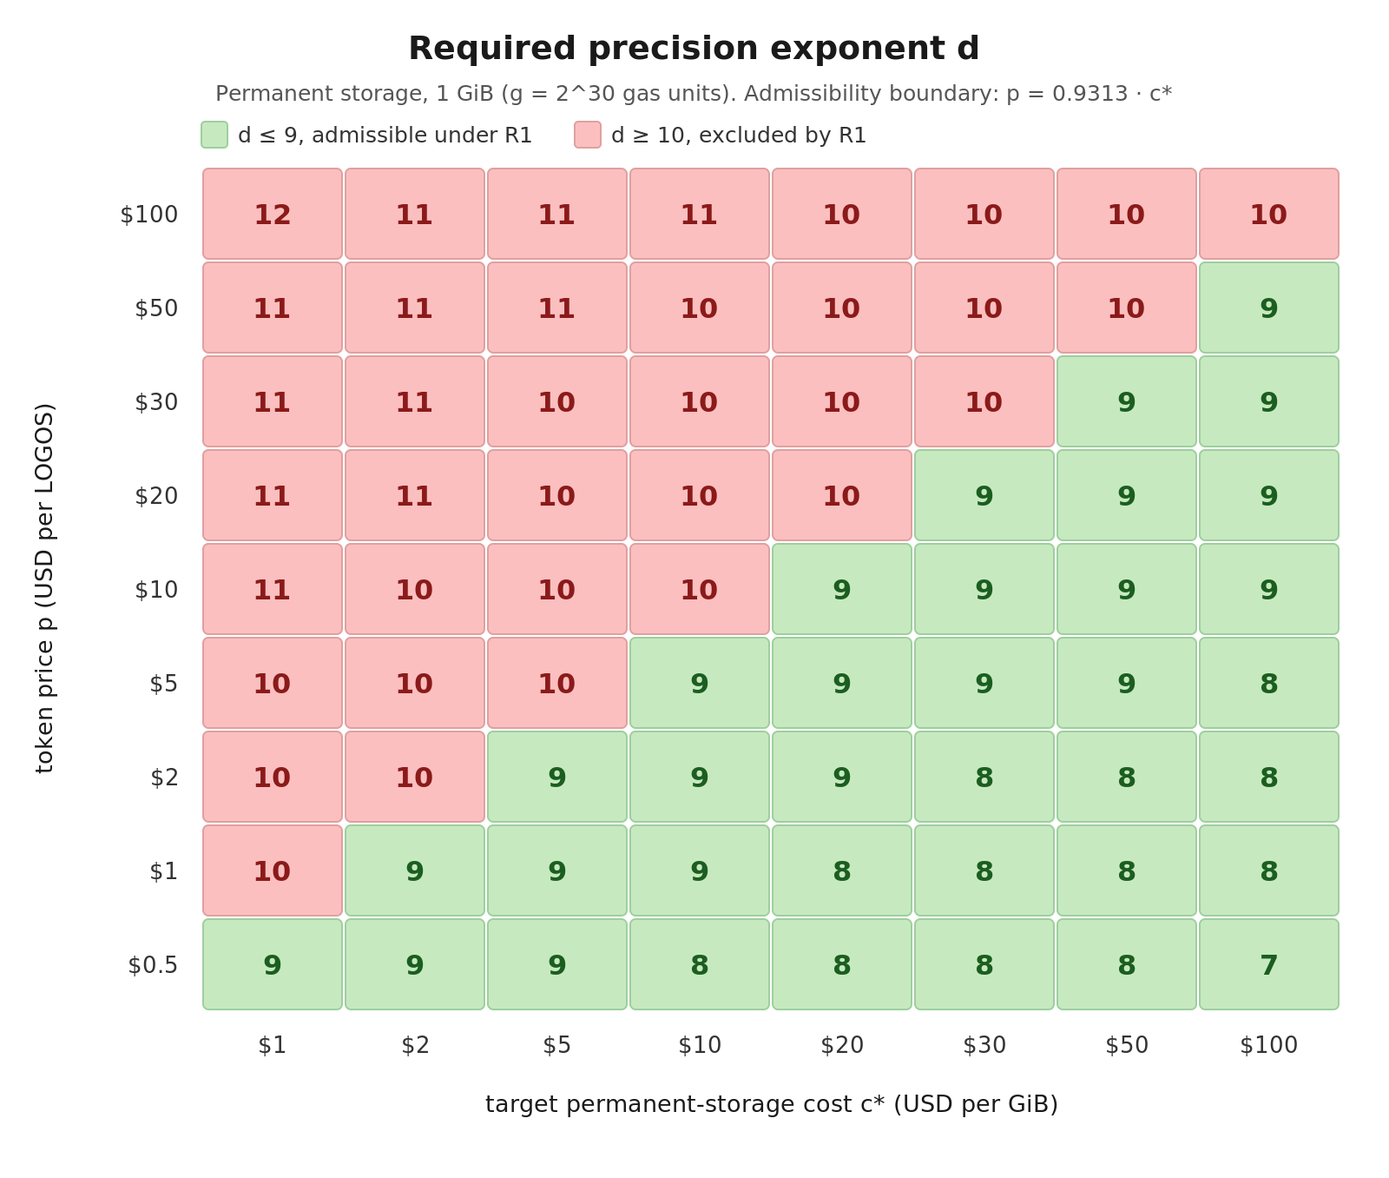
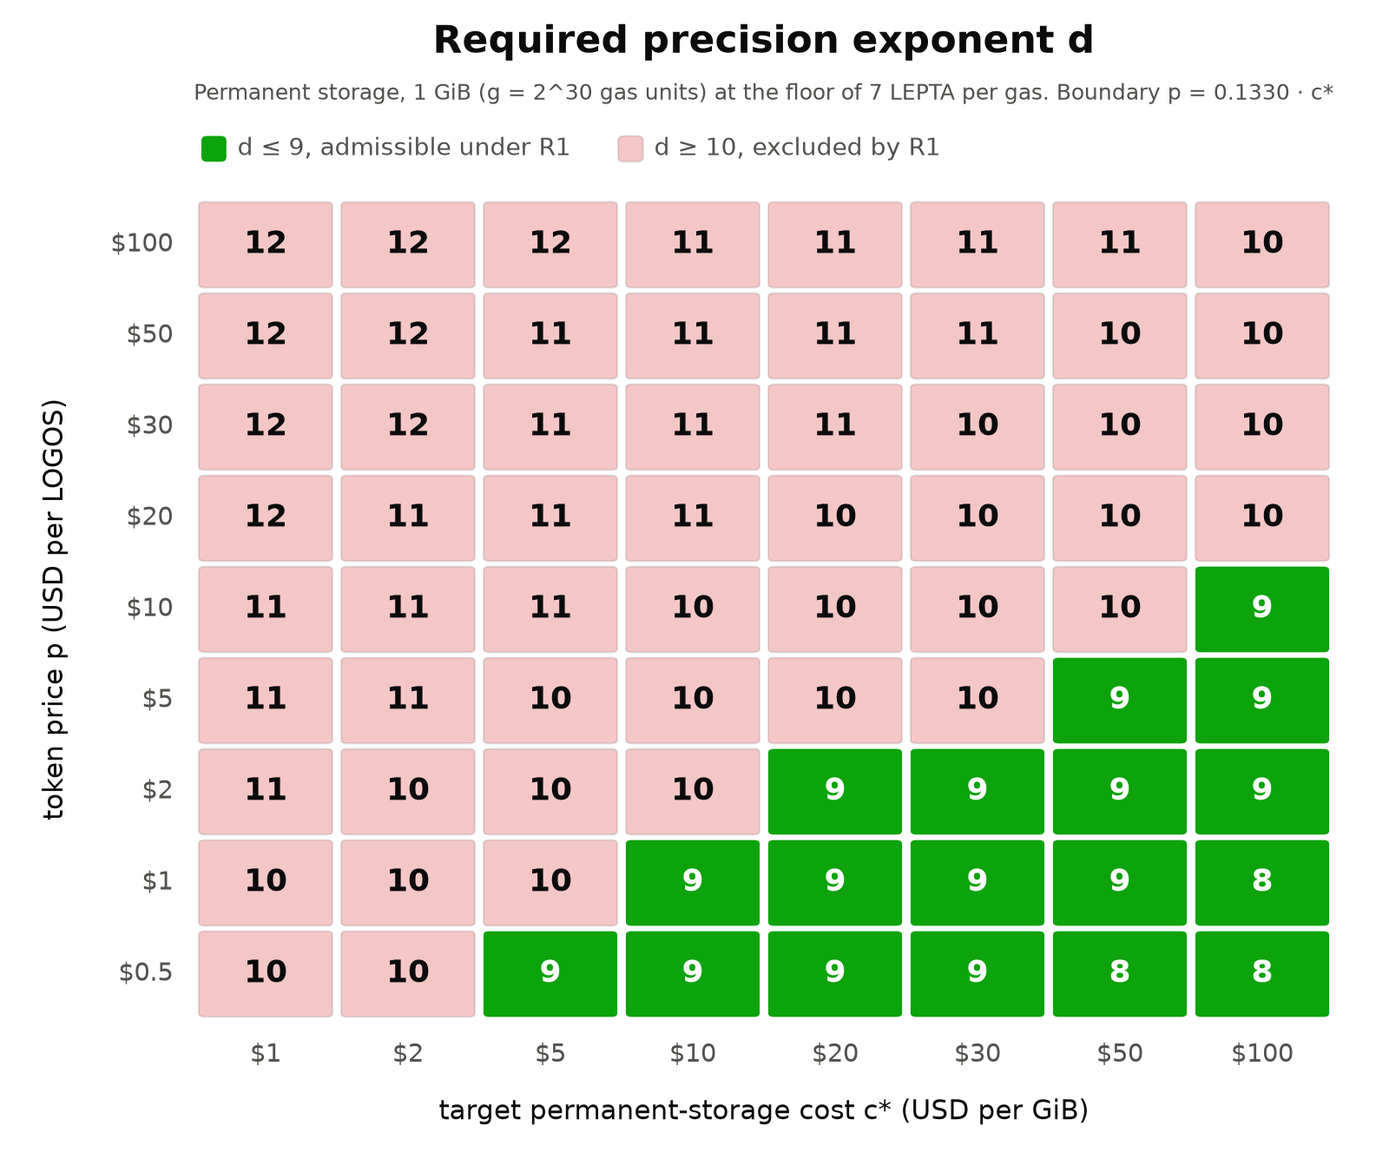
docs(rfc): derive the precision bound from the reachable price floor of 7

diff --git a/docs/blockchain/raw/rfc/RFC-503-cryptoeconomics-define-the-lepton-as-the-indivisible-token-unit.md b/docs/blockchain/raw/rfc/RFC-503-cryptoeconomics-define-the-lepton-as-the-indivisible-token-unit.md
@@ -10,14 +10,15 @@
 
 ## Reviewer Orientation
 
-Read the PR's Motivation first, then the Discussion, which derives the precision of nine and the initial storage price. [Mantle](../bedrock-v1.1-mantle-specification.md) and [Execution Market](../execution-market.md) are unchanged but assumed: their amounts and prices count LEPTA.
+Read the PR's Motivation first, then the Discussion, which derives the precision of nine and the initial storage price. [Mantle](../bedrock-v1.1-mantle-specification.md) is unchanged but assumed: its amounts count LEPTA, as do the prices of [Execution Market](../execution-market.md).
 
 | # | Priority | Document / Change | What to look for |
 | --- | --- | --- | --- |
 | 1 | Critical | **Start here**: [Overview Cryptoeconomics → Token Units and Precision](../overview-cryptoeconomics.md#token-units-and-precision) ([details](#1-the-lepton)) | the hard cap, $`10^{19}`$ LEPTA, fits a `TokenValue`; a parser rejects a tenth fractional digit |
 | 2 | Critical | **Start here**: [Block Rewards → Float Precision for Implementation](../block-rewards.md#float-precision-for-implementation) ([details](#2-the-block-rewards-integer-rule-in-lepta)) | three constants carry $`10^{9}`$ and nothing else changes; the intermediates outgrow 64 bits |
 | 3 | High | [Storage Markets → Parameter Justification](../storage-markets.md#parameter-justification) ([details](#3-the-initial-storage-price)) | the initial price, $`8 \cdot 10^{5}`$ LEPTA per gas, sets the level the price keeps |
-| 4 | Low | Four documents ([chores](#chores)) | skim: LGO becomes LOGOS |
+| 4 | Medium | [Execution Market → Base Fee Update Rule](../execution-market.md#base-fee-update-rule), [Storage Markets → Implementation](../storage-markets.md#implementation) and [Overview Cryptoeconomics → Fee Markets](../overview-cryptoeconomics.md#fee-markets) ([details](#4-the-reachable-price-floor)) | a price of 7 LEPTA per gas unit or less is never lowered, and a higher price never falls below 7 |
+| 5 | Low | Four documents ([chores](#chores)) | skim: LGO becomes LOGOS |
 
 # Discussion
 
@@ -29,7 +30,7 @@ Three facts about the surrounding specifications constrain $`d`$:
 
 - `Note.value` is a `TokenValue`, which is a `uint64`, and all token arithmetic is checked.
 - The hard cap is $`S_{cap} = 10^{10}`$ LOGOS.
-- The Execution base fee and the Permanent Storage price are integers with a floor of one LEPTON per gas unit.
+- The Execution base fee and the Permanent Storage price are integers with a reachable floor of 7 LEPTA per gas unit. An update never lowers a price of 7 or less, and never takes a higher price below 7.
 
 The requirements are:
 
@@ -47,9 +48,10 @@ The requirements are:
 - $`H(d) = V_{max} / N(d)`$ denotes the representable headroom, in multiples of $`S_{cap}`$.
 - $`S^{\ast}_{cap}`$ denotes the largest admissible hard cap.
 - $`g`$ denotes the gas units consumed by a reference operation.
+- $`\varphi`$ denotes the reachable price floor of the gas markets, in LEPTA per gas unit.
 - $`p`$ denotes the token price, in currency units per LOGOS.
 - $`c^{\ast}`$ denotes the target cost of the reference operation, in the same currency units. It is a design parameter, not a calibrated market price. The tables below evaluate it at $`\$1`$ to $`\$30`$ per GiB of permanent storage and at $`\$0.01`$ per Transfer Operation.
-- $`p^{\ast}(g, d)`$ denotes the saturation price: the value of $`p`$ above which the one-unit price floor makes the operation cost more than $`c^{\ast}`$.
+- $`p^{\ast}(g, d)`$ denotes the saturation price: the value of $`p`$ above which the price floor $`\varphi`$ makes the operation cost more than $`c^{\ast}`$.
 
 ## Parametrization
 
@@ -63,6 +65,7 @@ The requirements are:
 | $`S_{cap}^{\ast}`$ | Largest admissible hard cap | $`18{,}446{,}744{,}073`$ LOGOS | $`\lfloor V_{max}/10^9 \rfloor`$. Derived in [Headroom](#headroom). |
 | `EXECUTION_TRANSFER_GAS` | Execution Gas of a Transfer Operation | $`590`$ | Appendix of [Mantle](../bedrock-v1.1-mantle-specification.md). |
 | Storage gas per byte | Permanent Storage Gas per stored byte | $`1`$ | [Overview Cryptoeconomics → Gas](../overview-cryptoeconomics.md#gas). |
+| $`\varphi`$ | Reachable price floor | $`7`$ LEPTA per gas unit | An update lowers a price $`P`$ by at most $`\lfloor P/8 \rfloor`$ in [Execution Market](../execution-market.md#base-fee-update-rule) and [Storage Markets](../storage-markets.md#implementation), which is $`0`$ for $`P \le 7`$. |
 
 ## Upper bound on precision
 
@@ -102,26 +105,26 @@ Any change to the hard cap changes the admissible set, as recorded in [Headroom]
 
 ## Lower bound on precision
 
-Both gas markets price in integers with a floor of one unit. The minimum cost of an operation consuming $`g`$ gas units is therefore $`g`$ base units, independent of demand. In currency terms,
+Both gas markets price in integers with the reachable floor $`\varphi`$. Once a price has passed $`\varphi`$, the minimum cost of an operation consuming $`g`$ gas units is $`\varphi \cdot g`$ LEPTA, independent of demand. In currency terms,
 
 $$
-c_{min}(g, d, p) = g \cdot 10^{-d} \cdot p .
+c_{min}(g, d, p) = \varphi \cdot g \cdot 10^{-d} \cdot p .
 $$
 
 Requirement **R3** is $`c_{min} \le c^{\ast}`$. Substituting $`c_{min}`$ and solving for $`d`$:
 
 $$
-g \cdot 10^{-d} \cdot p \le c^{\ast}
+\varphi \cdot g \cdot 10^{-d} \cdot p \le c^{\ast}
 \quad \Longleftrightarrow \quad
-10^{d} \ge \frac{g \cdot p}{c^{\ast}}
+10^{d} \ge \frac{\varphi \cdot g \cdot p}{c^{\ast}}
 \quad \Longleftrightarrow \quad
-d \ge \log_{10}\left(\frac{g \cdot p}{c^{\ast}}\right).
+d \ge \log_{10}\left(\frac{\varphi \cdot g \cdot p}{c^{\ast}}\right).
 $$
 
 With $`g = 2^{30}`$, the gas charged for one GiB of permanent storage, the requirement is
 
 $$
-d \ge \log_{10}\left(\frac{p \cdot 2^{30}}{c^{\ast}}\right).
+d \ge \log_{10}\left(\frac{\varphi \cdot p \cdot 2^{30}}{c^{\ast}}\right).
 $$
 
 The requirement depends only on the ratio $`p / c^{\ast}`$, not on either value separately. Scaling the token price and the target cost by the same factor leaves the right-hand side unchanged. A $`\$1`$ token against a $`\$5`$ per GiB target imposes exactly the precision requirement of a $`\$6`$ token against a $`\$30`$ per GiB target, because both fix $`p / c^{\ast} = 0.2`$.
@@ -133,27 +136,27 @@ Combining the requirement with the **R1** cap $`d_{req} \le 9`$ gives the admiss
 $$
 d_{req} \le 9
 \quad \Longleftrightarrow \quad
-\frac{p}{c^{\ast}} \le \frac{10^{9}}{2^{30}} = 0.9313225746 .
+\frac{p}{c^{\ast}} \le \frac{10^{9}}{\varphi \cdot 2^{30}} = 0.1330460821 .
 $$
 
-The boundary is therefore a straight line, $`p = 0.9313 \cdot c^{\ast}`$, and the admissible region is everything below it. In words, $`d = 9`$ remains admissible for as long as one LOGOS buys at most $`0.9313`$ GiB of permanent storage.
+The boundary is therefore a straight line, $`p = 0.1330 \cdot c^{\ast}`$, and the admissible region is everything below it. In words, $`d = 9`$ remains admissible for as long as one LOGOS buys at most $`0.1330`$ GiB of permanent storage.
 
 The argument generalizes to any operation as
 
 $$
-\dfrac{p}{c^{\ast}} \le \dfrac{ 10^{9} }{ g }.
+\dfrac{p}{c^{\ast}} \le \dfrac{ 10^{9} }{ \varphi \cdot g }.
 $$
 
-The bound scales with the gas charged, so it is the definition of the gas unit, and not the precision, that sets how much room the mechanism has. Charging Permanent Storage Gas per KiB rather than per byte replaces $`g = 2^{30}`$ with $`g = 2^{20}`$ and moves the boundary from $`0.9313`$ to $`953.7`$ GiB per LOGOS.
+The bound scales with the gas charged, so it is the definition of the gas unit, and not the precision, that sets how much room the mechanism has. Charging Permanent Storage Gas per KiB rather than per byte replaces $`g = 2^{30}`$ with $`g = 2^{20}`$ and moves the boundary from $`0.1330`$ to $`136.2`$ GiB per LOGOS.
 
 ![Heatmap of the required precision d over a grid of token prices and storage-cost targets](RFC-503-cryptoeconomics-define-the-lepton-as-the-indivisible-token-unit/assets/precision-admissibility-heatmap.png)
 
-**Figure 1.** Required precision $`d`$ over a grid of token prices and storage-cost targets, with each cell holding $`d_{req} = \lceil \log_{10}(p \cdot 2^{30} / c^{\ast}) \rceil`$. Green marks $`d_{req} \le 9`$, admissible under **R1**. Red marks $`d_{req} \ge 10`$, which **R1** excludes.
+**Figure 1.** Required precision $`d`$ over a grid of token prices and storage-cost targets, with each cell holding $`d_{req} = \lceil \log_{10}(\varphi \cdot p \cdot 2^{30} / c^{\ast}) \rceil`$. Green marks $`d_{req} \le 9`$, admissible under **R1**. Red marks $`d_{req} \ge 10`$, which **R1** excludes.
 
 Read as a price rather than a ratio, the same condition gives the saturation price
 
 $$
-p^{\ast}(g, d) = \frac{c^{\ast} \cdot 10^{d}}{g} .
+p^{\ast}(g, d) = \frac{c^{\ast} \cdot 10^{d}}{\varphi \cdot g} .
 $$
 
 Above $`p^{\ast}`$ the floor binds: the market cannot clear below $`c_{min}`$, regardless of demand. Below $`p^{\ast}`$ the floor is slack, and the price update rules in [Execution Market](../execution-market.md) and [Storage Markets](../storage-markets.md) set the price.
@@ -167,31 +170,31 @@ The gap in $`g`$ is a factor of $`1.82 \times 10^{6}`$, so the two markets satur
 
 | $`d`$ | Transfer, $`c^{\ast} = \$0.01`$ | 1 GiB, $`c^{\ast} = \$1`$ | 1 GiB, $`c^{\ast} = \$5`$ | 1 GiB, $`c^{\ast} = \$10`$ | 1 GiB, $`c^{\ast} = \$30`$ |
 | --- | --- | --- | --- | --- | --- |
-| $`7`$ | $`\$169.49`$ | $`\$0.0093`$ | $`\$0.0466`$ | $`\$0.0931`$ | $`\$0.2794`$ |
-| $`8`$ | $`\$1{,}694.92`$ | $`\$0.0931`$ | $`\$0.4657`$ | $`\$0.9313`$ | $`\$2.7940`$ |
-| $`9`$ | $`\$16{,}949.15`$ | $`\$0.9313`$ | $`\$4.6566`$ | $`\$9.3132`$ | $`\$27.9397`$ |
+| $`7`$ | $`\$24.21`$ | $`\$0.0013`$ | $`\$0.0067`$ | $`\$0.0133`$ | $`\$0.0399`$ |
+| $`8`$ | $`\$242.13`$ | $`\$0.0133`$ | $`\$0.0665`$ | $`\$0.1330`$ | $`\$0.3991`$ |
+| $`9`$ | $`\$2{,}421.31`$ | $`\$0.1330`$ | $`\$0.6652`$ | $`\$1.3305`$ | $`\$3.9914`$ |
 
-- Execution is not the binding market. At $`d = 8`$ a transfer stays under one cent up to $`\$1{,}695`$ per LOGOS, which is a fully diluted valuation of $`17`$ trillion USD at $`S_{cap} = 10^{10}`$. The execution floor does not discriminate between candidate precisions at any plausible price.
-- Permanent storage is the binding market. Its boundary $`p / c^{\ast} \le 10^{9} / 2^{30}`$ is tighter than the execution boundary $`p / c^{\ast} \le 10^{9} / 590`$ by the gas ratio alone, so the ordering holds whatever target costs are assigned to the two operations.
-- At $`d = 8`$ and $`c^{\ast} = \$5`$ per GiB, the storage floor exceeds $`\$5`$ per GiB once LOGOS passes $`\$0.4657`$. That is inside the plausible price range, so $`d = 8`$ misses the $`\$5`$ per GiB target under **R3**.
+- Execution is not the binding market. At $`d = 8`$ a transfer stays under one cent up to $`\$242`$ per LOGOS, which is a fully diluted valuation of $`2.4`$ trillion USD at $`S_{cap} = 10^{10}`$. The execution floor does not discriminate between candidate precisions at any plausible price.
+- Permanent storage is the binding market. Its boundary $`p / c^{\ast} \le 10^{9} / (\varphi \cdot 2^{30})`$ is tighter than the execution boundary $`p / c^{\ast} \le 10^{9} / (\varphi \cdot 590)`$ by the gas ratio alone, so the ordering holds whatever target costs are assigned to the two operations.
+- At $`d = 8`$ and $`c^{\ast} = \$5`$ per GiB, the storage floor exceeds $`\$5`$ per GiB once LOGOS passes $`\$0.0665`$. That is inside the plausible price range, so $`d = 8`$ misses the $`\$5`$ per GiB target under **R3**.
 
 Evaluating the requirement derived above at four prices and three targets gives the integer precision each combination demands.
 
 | $`p`$ (USD per LOGOS) | Required $`d`$ at $`c^{\ast} = \$5`$ per GiB | Required $`d`$ at $`c^{\ast} = \$10`$ per GiB | Required $`d`$ at $`c^{\ast} = \$30`$ per GiB | Admissible under R1 |
 | --- | --- | --- | --- | --- |
-| $`\$1`$ | $`8.33 \rightarrow 9`$ | $`8.03 \rightarrow 9`$ | $`7.55 \rightarrow 8`$ | yes / yes / yes |
-| $`\$2`$ | $`8.63 \rightarrow 9`$ | $`8.33 \rightarrow 9`$ | $`7.85 \rightarrow 8`$ | yes / yes / yes |
-| $`\$5`$ | $`9.03 \rightarrow 10`$ | $`8.73 \rightarrow 9`$ | $`8.25 \rightarrow 9`$ | no / yes / yes |
-| $`\$10`$ | $`9.33 \rightarrow 10`$ | $`9.03 \rightarrow 10`$ | $`8.55 \rightarrow 9`$ | no / no / yes |
+| $`\$1`$ | $`9.18 \rightarrow 10`$ | $`8.88 \rightarrow 9`$ | $`8.40 \rightarrow 9`$ | no / yes / yes |
+| $`\$2`$ | $`9.48 \rightarrow 10`$ | $`9.18 \rightarrow 10`$ | $`8.70 \rightarrow 9`$ | no / no / yes |
+| $`\$5`$ | $`9.88 \rightarrow 10`$ | $`9.57 \rightarrow 10`$ | $`9.10 \rightarrow 10`$ | no / no / no |
+| $`\$10`$ | $`10.18 \rightarrow 11`$ | $`9.88 \rightarrow 10`$ | $`9.40 \rightarrow 10`$ | no / no / no |
 
-**R3** is satisfiable under **R1** exactly when $`p / c^{\ast} \le 0.9313`$. At $`c^{\ast} = \$5`$ per GiB that is $`p \le \$4.66`$, at $`\$10`$ it is $`p \le \$9.31`$, and at $`\$30`$ it is $`p \le \$27.94`$. Outside that region the requirement is $`d \ge 10`$, which **R1** excludes.
+**R3** is satisfiable under **R1** exactly when $`p / c^{\ast} \le 0.1330`$. At $`c^{\ast} = \$5`$ per GiB that is $`p \le \$0.67`$, at $`\$10`$ it is $`p \le \$1.33`$, and at $`\$30`$ it is $`p \le \$3.99`$. Outside that region the requirement is $`d \ge 10`$, which **R1** excludes.
 
 ## Choice of precision
 
 **R1** caps precision at $`d \le 9`$. **R3** requires $`d \ge d_{req}`$, the smallest integer meeting the bound derived above:
 
 $$
-d_{req} = \left\lceil \log_{10}\left(\frac{p \cdot 2^{30}}{c^{\ast}}\right) \right\rceil .
+d_{req} = \left\lceil \log_{10}\left(\frac{\varphi \cdot p \cdot 2^{30}}{c^{\ast}}\right) \right\rceil .
 $$
 
 The admissible set is therefore the integer interval
@@ -200,18 +203,18 @@ $$
 \mathcal{D} = \lbrace d \in \mathbb{N} : d_{req} \le d \le 9 \rbrace .
 $$
 
-Its contents depend only on the ratio $`p / c^{\ast}`$, through the equivalence $`d_{req} \le k \Leftrightarrow p / c^{\ast} \le 10^{k} / 2^{30}`$.
+Its contents depend only on the ratio $`p / c^{\ast}`$, through the equivalence $`d_{req} \le k \Leftrightarrow p / c^{\ast} \le 10^{k} / (\varphi \cdot 2^{30})`$.
 
 | $`p / c^{\ast}`$ (GiB per LOGOS) | $`d_{req}`$ | Admissible set $`\mathcal{D}`$ |
 | --- | --- | --- |
-| $`\le 10^{7} / 2^{30}`$ | $`\le 7`$ | $`\lbrace 7, 8, 9 \rbrace`$ |
-| $`\left( 10^{7} / 2^{30}, \; 10^{8} / 2^{30} \right]`$ | $`8`$ | $`\lbrace 8, 9 \rbrace`$ |
-| $`\left( 10^{8} / 2^{30}, \; 10^{9} / 2^{30} \right]`$ | $`9`$ | $`\lbrace 9 \rbrace`$ |
-| $`\gt 10^{9} / 2^{30}`$ | $`\ge 10`$ | empty |
+| $`\le 10^{7} / (\varphi \cdot 2^{30})`$ | $`\le 7`$ | $`\lbrace 7, 8, 9 \rbrace`$ |
+| $`\left( 10^{7} / (\varphi \cdot 2^{30}), \; 10^{8} / (\varphi \cdot 2^{30}) \right]`$ | $`8`$ | $`\lbrace 8, 9 \rbrace`$ |
+| $`\left( 10^{8} / (\varphi \cdot 2^{30}), \; 10^{9} / (\varphi \cdot 2^{30}) \right]`$ | $`9`$ | $`\lbrace 9 \rbrace`$ |
+| $`\gt 10^{9} / (\varphi \cdot 2^{30})`$ | $`\ge 10`$ | empty |
 
 $`\mathcal{D}`$ is an interval capped at $`9`$ by **R1**, so its upper endpoint is $`9`$ whenever it is non-empty. Therefore $`d = 9`$ **is admissible whenever any precision is admissible.**
 
-No other value has this property. $`d = 8`$ is admissible only on $`p / c^{\ast} \le 10^{8} / 2^{30}`$, one tenth of the range, and $`d = 7`$ on one hundredth.
+No other value has this property. $`d = 8`$ is admissible only on $`p / c^{\ast} \le 10^{8} / (\varphi \cdot 2^{30})`$, one tenth of the range, and $`d = 7`$ on one hundredth.
 
 Selecting $`d = 9`$ therefore does not require committing to a value of $`p / c^{\ast}`$, which is not known when the encoding is fixed and can move by an order of magnitude over its life.
 
@@ -221,7 +224,7 @@ $$
 
 What is forced and what is not:
 
-- On the band $`10^{8} / 2^{30} \lt p / c^{\ast} \le 10^{9} / 2^{30}`$, $`d = 9`$ is the only admissible value.
+- On the band $`10^{8} / (\varphi \cdot 2^{30}) \lt p / c^{\ast} \le 10^{9} / (\varphi \cdot 2^{30})`$, $`d = 9`$ is the only admissible value.
 - Below that band $`d = 9`$ remains admissible but is no longer unique, and $`d = 8`$ satisfies both requirements as well.
 - Above the band $`\mathcal{D}`$ is empty and no precision satisfies both requirements.
 
@@ -230,7 +233,7 @@ Taking the top of the interval costs representable headroom, $`H(9) = 1.8447`$ a
 Two consequences:
 
 - The result is a function of $`S_{cap} = 10^{10}`$ LOGOS and of `TokenValue` being 64 bits wide. Changing either reopens the derivation.
-- Where $`p / c^{\ast} \gt 10^{9} / 2^{30}`$ the two requirements are jointly infeasible: **R1** caps $`d`$ before **R3** is met. The remedy lies in the Permanent Storage Gas unit $`g`$, which sets the boundary at $`10^{9} / g`$, and not in the precision.
+- Where $`p / c^{\ast} \gt 10^{9} / (\varphi \cdot 2^{30})`$ the two requirements are jointly infeasible: **R1** caps $`d`$ before **R3** is met. The remedy lies in the Permanent Storage Gas unit $`g`$, which sets the boundary at $`10^{9} / (\varphi \cdot g)`$, and not in the precision.
 
 ## Headroom
 
@@ -242,7 +245,7 @@ $$
 S_{cap} \le \left\lfloor \frac{2^{64}-1}{10^9} \right\rfloor = 18{,}446{,}744{,}073 \text{ LOGOS}.
 $$
 
-The specified cap of $`10^{10}`$ LOGOS sits at $`54.2\%`$ of this ceiling. A cap above $`1.8446744073 \times 10^{10}`$ LOGOS is incompatible with $`d = 9`$ and forces $`d \le 8`$. By the lower bound on precision, that narrows the region where **R3** can be met by a factor of ten, from $`p / c^{\ast} \le 10^{9} / 2^{30}`$ to $`p / c^{\ast} \le 10^{8} / 2^{30}`$, so the failure appears at high prices rather than low ones.
+The specified cap of $`10^{10}`$ LOGOS sits at $`54.2\%`$ of this ceiling. A cap above $`1.8446744073 \times 10^{10}`$ LOGOS is incompatible with $`d = 9`$ and forces $`d \le 8`$. By the lower bound on precision, that narrows the region where **R3** can be met by a factor of ten, from $`p / c^{\ast} \le 10^{9} / (\varphi \cdot 2^{30})`$ to $`p / c^{\ast} \le 10^{8} / (\varphi \cdot 2^{30})`$, so the failure appears at high prices rather than low ones.
 
 **Supply growth.** [Block Rewards](../block-rewards.md) allocates the full supply at genesis and moves tokens between circulating supply, the rewards pool, the rewards reserve and the proof of work reward pool. No path in that mechanism raises the total above $`S_{cap}`$. The bound $`N(9) \le V_{max}`$ therefore holds at every step, with no growth argument required. If a later revision introduces issuance above $`S_{cap}`$, this section must be reopened.
 
@@ -267,12 +270,12 @@ Every protocol quantity denominated in the native token is measured in LEPTA, or
 
 Specifications that state a constant in whole LOGOS must scale it by $`10^9`$ before evaluating it against ledger quantities. Ratios of two same-unit quantities are scale-invariant and are unaffected.
 
-Two floor costs follow from the table and the gas constants:
+Two floor costs follow from $`\varphi`$ and the gas constants:
 
-- A Transfer Operation costs at least $`590`$ LEPTA in execution fees, which is $`5.9 \times 10^{-7}`$ LOGOS.
-- Storing one GiB permanently costs at least $`2^{30} = 1{,}073{,}741{,}824`$ LEPTA, which is $`1.0737`$ LOGOS.
+- A Transfer Operation costs at least $`\varphi \cdot 590 = 4{,}130`$ LEPTA in execution fees once the base fee has passed $`\varphi`$, which is $`4.13 \times 10^{-6}`$ LOGOS. The base fee starts at 1, where a transfer costs 590 LEPTA.
+- Storing one GiB permanently costs at least $`\varphi \cdot 2^{30} = 7{,}516{,}192{,}768`$ LEPTA, which is $`7.5162`$ LOGOS.
 
-Both are floors. The execution base fee starts on its floor. The storage price starts above it, as [Initial storage price](#initial-storage-price) derives.
+The storage price starts above $`\varphi`$, as [Initial storage price](#initial-storage-price) derives.
 
 ## Rounding
 
@@ -280,7 +283,7 @@ Every rounding in the fee, price and reward mechanisms now rounds to a whole LEP
 
 | Class of quantity | Direction | Reason |
 | --- | --- | --- |
-| Amounts charged to a user | away from zero | Keeps one LEPTON as the effective price floor. Rounding down makes $`0`$ an absorbing state for the base fee, after which execution is permanently free. |
+| Amounts charged to a user | away from zero | Keeps every price at one LEPTON or more. Rounding down makes $`0`$ an absorbing state for the base fee, after which execution is permanently free. |
 | Amounts credited to a participant | toward zero | The sum of credited shares never exceeds the exact entitlement. |
 | Measurements, such as usage averages | toward zero | The usage EMA in [Storage Markets](../storage-markets.md) is additive and recovers from $`0`$ once demand resumes. Rounding up reports residual demand on an idle network. |
 
@@ -341,7 +344,7 @@ The encoding does not change. `Note.value` is already a `uint64`, and this chang
 
 LOGOS is both the token name and its ticker. ISO 4217 reserves codes beginning with X for units that are not specific to a country ([ISO 4217](https://en.wikipedia.org/wiki/ISO_4217), accessed 2026-08-11), so XLG would be the conventional code. It is not an assigned code. The lepton was the smallest denomination of Ancient Greek coinage ([Lesson of the widow’s mite](https://en.wikipedia.org/wiki/Lesson_of_the_widow%27s_mite), accessed 2026-08-11).
 
-## Specifications the change leaves unmodified
+## Specifications that do not name the unit
 
 [Mantle](../bedrock-v1.1-mantle-specification.md) types every amount as `TokenValue`, and [Execution Market](../execution-market.md) starts its base fee at 1. Neither names the unit. Token Units and Precision covers both, and each is a candidate for a one-line link to it.
 
@@ -434,8 +437,11 @@ def format_logos(value: int, trim: bool = False) -> str:
 
 - sets $`P_{\text{storage}}(0)`$ to $`8 \cdot 10^{5}`$ LEPTA per Permanent Storage Gas, which is $`8 \cdot 10^{5}`$ LEPTA per stored byte. It was 1 LGO per gas;
 - replaces the claim that the price converges to the market price from any start, and the epoch counts derived from it, with the behaviour of the rule: the price follows changes in usage, so the start sets the level;
-- removes the adjustment of the start by genesis governance at TGE;
-- names the floor in the rounding paragraph 1 LEPTON per Permanent Storage Gas, since the start no longer sits on it.
+- removes the adjustment of the start by genesis governance at TGE.
+
+## 4. The reachable price floor
+
+The rounding paragraphs of [Execution Market](../execution-market.md#base-fee-update-rule), [Storage Markets](../storage-markets.md#implementation) and [Overview Cryptoeconomics](../overview-cryptoeconomics.md#fee-markets) state the floor that upward rounding leaves. A price of 7 LEPTA per gas unit or less is never lowered, and a higher price never falls below 7. All three said the floor was one unit. Execution Market records this as revision 1.2.1.
 
 ## Chores
 
@@ -456,9 +462,10 @@ def format_logos(value: int, trim: bool = False) -> str:
 
 | Specification | Status | Note |
 | --- | --- | --- |
-| [\[Overview\] Cryptoeconomics](../overview-cryptoeconomics.md) | Modified | Token Units and Precision added |
+| [\[Overview\] Cryptoeconomics](../overview-cryptoeconomics.md) | Modified | Token Units and Precision added; reachable price floor |
 | [Block Rewards](../block-rewards.md) | Modified | integer rule in LEPTA; LGO becomes LOGOS |
-| [Storage Markets](../storage-markets.md) | Modified | initial price $`8 \cdot 10^{5}`$ LEPTA per gas, and its justification |
+| [Storage Markets](../storage-markets.md) | Modified | initial price $`8 \cdot 10^{5}`$ LEPTA per gas, and its justification; reachable price floor |
+| [Execution Market](../execution-market.md) | Modified | reachable floor of the base fee |
 | [Bedrock Genesis Block](../bedrock-genesis-block.md) | Modified | LGO becomes LOGOS |
 | [\[Analysis\] Block Rewards](../analysis-block-rewards.md) | Modified | LGO becomes LOGOS |
 | [\[Analysis\] Block Reward Parameter Calibration](../analysis-block-reward-parameter-calibration.md) | Modified | LGO becomes LOGOS |
